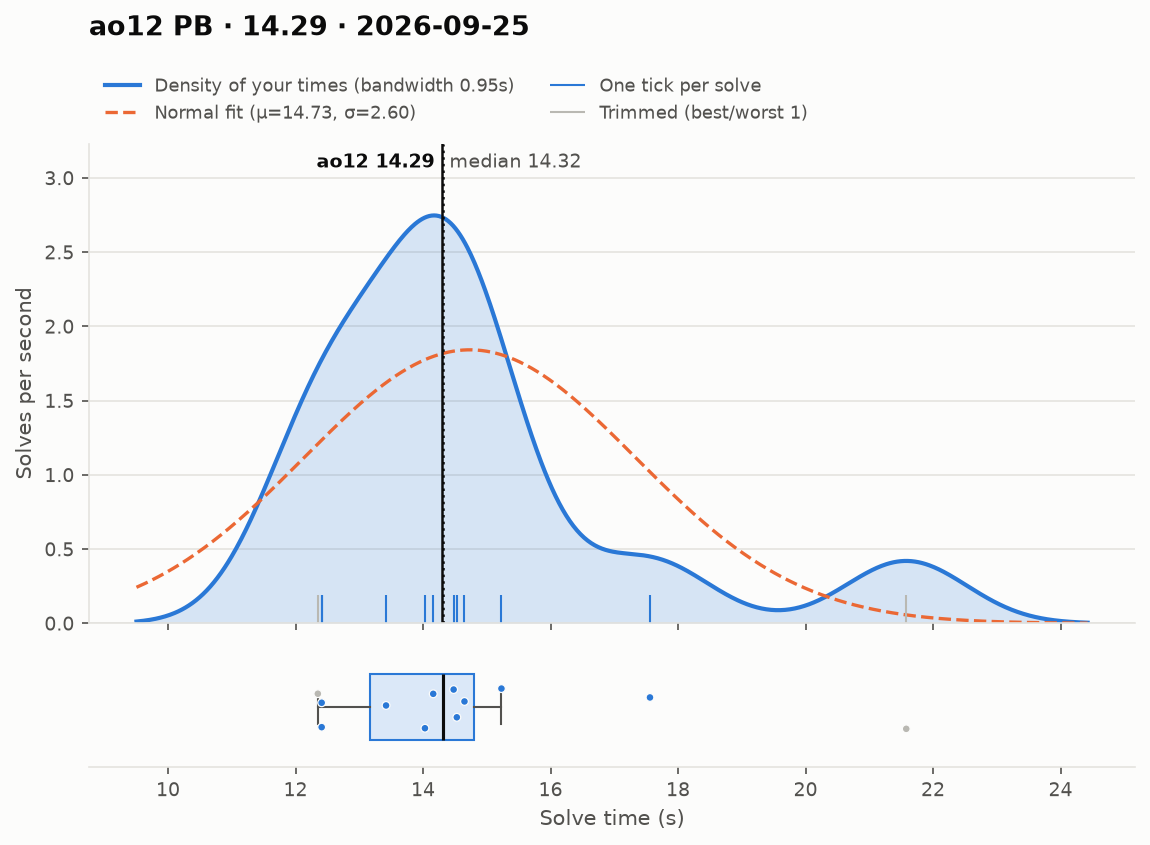
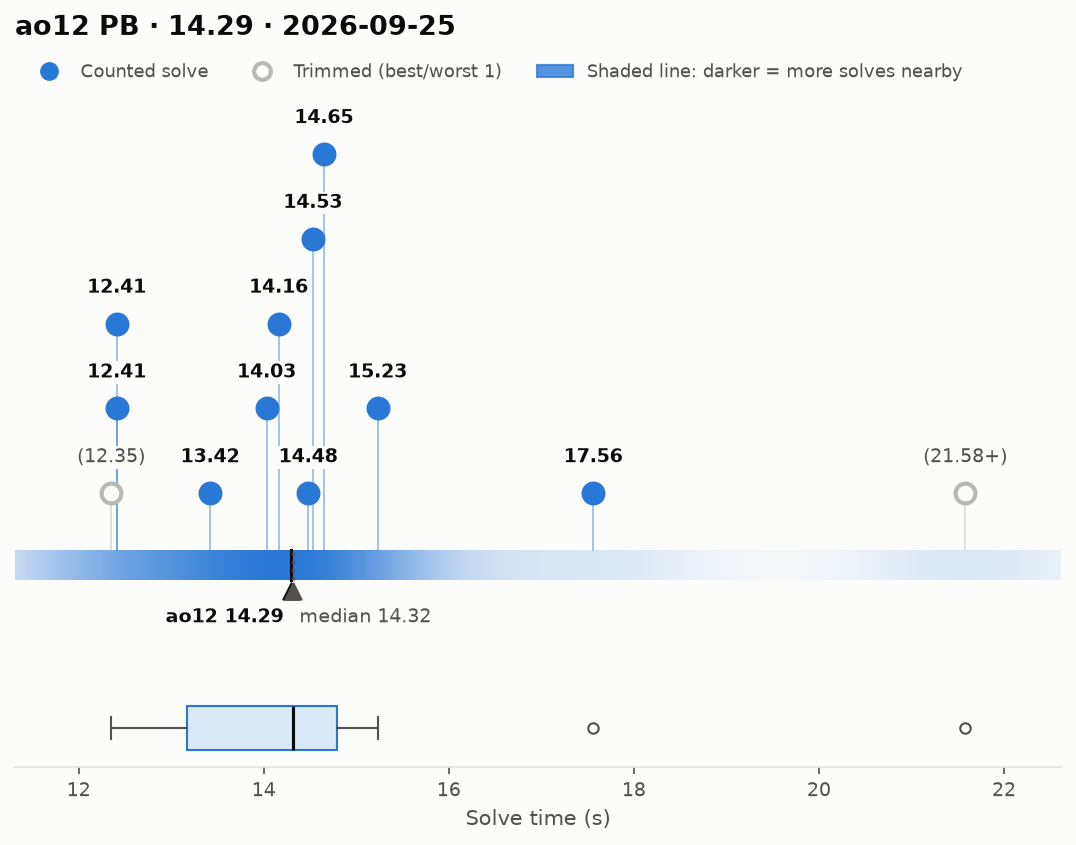
Use a labeled number line with concentration shading for ao5/ao12

diff --git a/scripts/build.py b/scripts/build.py
@@ -38,6 +38,7 @@ import matplotlib
 
 matplotlib.use("Agg")
 import matplotlib.dates as mdates
+import matplotlib.patches
 import matplotlib.pyplot as plt
 import numpy as np
 from scipy import stats as sps
@@ -207,7 +208,7 @@ def style_axes(ax):
     ax.set_axisbelow(True)
 
 
-def plot_distribution(event, day, times, trimmed, avg, st, out):
+def plot_distribution(event, day, times, trimmed, avg, st, out, solves=None):
     finite_idx = [i for i, t in enumerate(times) if math.isfinite(t)]
     counted = [times[i] for i in finite_idx if i not in trimmed]
     cut = [times[i] for i in finite_idx if i in trimmed]
@@ -275,6 +276,113 @@ def plot_distribution(event, day, times, trimmed, avg, st, out):
     axb.scatter(allt, 1 + jitter, s=14, c=colors, edgecolors=SURFACE, linewidths=0.6, zorder=3)
     axb.set_yticks([])
     axb.spines["left"].set_visible(False)
+    axb.set_xlabel("Solve time (s)", color=INK_2)
+
+    fig.savefig(out, dpi=150, bbox_inches="tight", facecolor=SURFACE)
+    plt.close(fig)
+
+
+def plot_numberline(event, day, times, trimmed, avg, st, out, solves=None):
+    """Small averages (ao5/ao12): every solve as a labeled dot on a number line.
+
+    Dots too close to label side by side stack upward, so clusters form piles.
+    The number line itself is shaded by how many solves sit nearby (darker =
+    more concentrated), which shows density without a curve going up and down.
+    """
+    finite = [(t, i) for i, t in enumerate(times) if math.isfinite(t)]
+    finite.sort()
+    allt = np.array([t for t, _ in finite])
+    span = allt.max() - allt.min()
+    lo, hi = allt.min() - 0.08 * span - 0.3, allt.max() + 0.08 * span + 0.3
+    min_sep = 0.075 * (hi - lo)  # roughly one label's width in data units
+
+    # Stack: each dot takes the lowest level with no neighbor within min_sep.
+    levels, placed = [], []  # placed: (x, level)
+    for t, _ in finite:
+        lvl = 0
+        while any(abs(t - x) < min_sep and l == lvl for x, l in placed):
+            lvl += 1
+        placed.append((t, lvl))
+        levels.append(lvl)
+    top = max(levels)
+
+    fig, (ax, axb) = plt.subplots(
+        2, 1, figsize=(9, 3.6 + 0.55 * top), sharex=True,
+        gridspec_kw={"height_ratios": [3 + top, 1], "hspace": 0.12},
+    )
+    fig.patch.set_facecolor(SURFACE)
+    for a in (ax, axb):
+        a.set_facecolor(SURFACE)
+        for side in ("top", "right", "left"):
+            a.spines[side].set_visible(False)
+        a.spines["bottom"].set_color(GRID)
+        a.tick_params(colors=INK_2, labelsize=9)
+        a.set_yticks([])
+
+    # Density-shaded number line (same KDE as the big averages, drawn as color).
+    xs = np.linspace(lo, hi, 600)
+    kde = sps.gaussian_kde(allt)
+    kde.set_bandwidth(kde.factor * 0.6)
+    d = kde(xs)
+    d = d / d.max()
+    cmap = matplotlib.colors.LinearSegmentedColormap.from_list("conc", [SURFACE, COUNTED])
+    band_h = 0.32
+    ax.imshow(d[np.newaxis, :], extent=(lo, hi, -band_h - 0.25, -0.25), aspect="auto",
+              cmap=cmap, vmin=0, vmax=1, interpolation="bilinear", zorder=1)
+
+    # Dots + exact time labels.
+    for (t, i), lvl in zip(finite, levels):
+        is_cut = i in trimmed
+        y = 0.35 + lvl * 0.9
+        ax.scatter([t], [y], s=90, zorder=3,
+                   facecolors=SURFACE if is_cut else COUNTED,
+                   edgecolors=TRIMMED if is_cut else COUNTED, linewidths=2)
+        ax.plot([t, t], [-0.25, y], color=TRIMMED if is_cut else COUNTED,
+                linewidth=0.8, alpha=0.5, zorder=2)
+        pen = "+" if solves and solves[i]["penalty"] == "+2" else ""
+        ax.text(t, y + 0.28, f"({fmt(t)}{pen})" if is_cut else fmt(t) + pen,
+                ha="center", va="bottom", fontsize=9,
+                color=INK_2 if is_cut else INK, fontweight="normal" if is_cut else "bold",
+                bbox={"facecolor": SURFACE, "edgecolor": "none", "pad": 1}, zorder=4)
+
+    # Average and median: markers under the shaded line, so nothing crosses the dots.
+    base = -band_h - 0.25
+    avg_right = avg >= st["median"]
+    for x, lab, col, right in [(avg, f"{event} {fmt(avg)}", INK, avg_right),
+                               (st["median"], f"median {fmt(st['median'])}", INK_2, not avg_right)]:
+        ax.plot([x, x], [base, -0.25], color=col, linewidth=1.5, zorder=2,
+                linestyle="-" if col == INK else ":")
+        ax.scatter([x], [base - 0.12], marker="^", s=60, color=col, zorder=3)
+        ax.text(x, base - 0.3, f" {lab} " if right else f" {lab} ", color=col, fontsize=9,
+                va="top", ha="left" if right else "right",
+                fontweight="bold" if col == INK else "normal")
+    ytop = 0.35 + top * 0.9 + 0.6
+    ax.set_ylim(base - 0.75, ytop)
+    ax.set_xlim(lo, hi)
+    ax.spines["bottom"].set_visible(False)
+    ax.tick_params(axis="x", length=0)
+
+    ax.set_title(f"{event} PB · {fmt(avg)} · {day}", loc="left", color=INK,
+                 fontsize=13, fontweight="bold", pad=30)
+    handles = [
+        plt.Line2D([], [], marker="o", ls="", ms=8, color=COUNTED, label="Counted solve"),
+        plt.Line2D([], [], marker="o", ls="", ms=8, mfc=SURFACE, mec=TRIMMED, mew=2,
+                   label=f"Trimmed (best/worst {trim_count(len(times))})"),
+        matplotlib.patches.Patch(color=COUNTED, alpha=0.8,
+                                 label="Shaded line: darker = more solves nearby"),
+    ]
+    ax.legend(handles=handles, frameon=False, fontsize=8.5, labelcolor=INK_2,
+              loc="lower left", bbox_to_anchor=(0, 1.0), ncol=3)
+
+    # Box plot for quartiles, same x-axis.
+    axb.boxplot(allt, orientation="horizontal", widths=0.55, patch_artist=True,
+                showfliers=True,
+                boxprops={"facecolor": "#dbe8f8", "edgecolor": COUNTED},
+                medianprops={"color": INK, "linewidth": 1.5},
+                whiskerprops={"color": INK_2}, capprops={"color": INK_2},
+                flierprops={"marker": "o", "markersize": 5, "markerfacecolor": SURFACE,
+                            "markeredgecolor": INK_2})
+    axb.set_yticks([])
     axb.set_xlabel("Solve time (s)", color=INK_2)
 
     fig.savefig(out, dpi=150, bbox_inches="tight", facecolor=SURFACE)
@@ -490,7 +598,8 @@ def main():
 
             st = describe(times)
             row["std"] = st["std"]
-            plot_distribution(ev, day, times, trimmed, avg, st, outdir / "distribution.png")
+            plot = plot_numberline if len(times) <= 12 else plot_distribution
+            plot(ev, day, times, trimmed, avg, st, outdir / "distribution.png", solves=solves)
             plot_sequence(ev, day, times, trimmed, avg, outdir / "sequence.png")
             (outdir / "README.md").write_text(
                 session_page(ev, day, solves, notes, avg, trimmed, st, prev))
